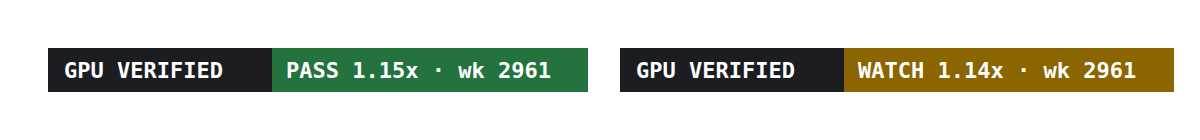
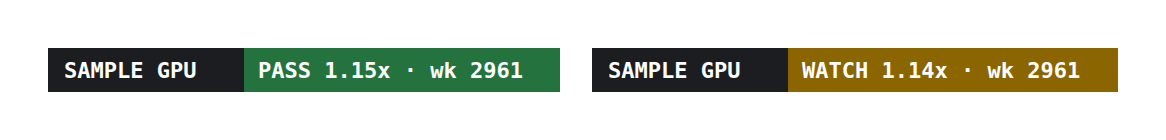
Badge reads SAMPLE GPU when the proofs use published sample evidence
With PCT_EVIDENCE=public the left side of /badge/<address>.svg says SAMPLE GPU instead of GPU
VERIFIED, and the verify page's badge alt text matches. docs/img/badge.png refreshed.

Claude-Session: https://claude.ai/code/session_01VroAWgx1ds49jSJxLJ4Pcu

Changed region(s): [[0.0309, 0.3429, 0.988, 0.6571]]

diff --git a/packages/web/src/zk.ts b/packages/web/src/zk.ts
@@ -138,15 +138,19 @@ export async function loadZk(connection: Connection, programId: PublicKey, loan:
   };
 }
 
-/** Shields-style "GPU VERIFIED | PASS 1.15x · wk 2961" badge. */
-export function badge(status: ZkStatus, coverageBps: number, asOf: number): string {
+/**
+ * Shields-style "GPU VERIFIED | PASS 1.15x · wk 2961" badge. With PCT_EVIDENCE=public the proofs use
+ * NVIDIA's published sample report, so the left side reads "SAMPLE GPU" instead.
+ */
+export function badge(status: ZkStatus, coverageBps: number, asOf: number, sample = evidence() === "public"): string {
   const label = status === "pass" ? `PASS ${(coverageBps / 10000).toFixed(2)}x` : status === "watch" ? `WATCH ${(coverageBps / 10000).toFixed(2)}x` : "UNPROVEN";
   const color = status === "pass" ? "#24733f" : status === "watch" ? "#8a6500" : "#63666b";
   const right = status === "none" ? label : `${label} · wk ${asOf}`;
-  const w1 = 112,
+  const left = sample ? "SAMPLE GPU" : "GPU VERIFIED";
+  const w1 = Math.round(26 + left.length * 7.2),
     w2 = Math.round(14 + right.length * 7.2);
-  return `<svg xmlns="http://www.w3.org/2000/svg" width="${w1 + w2}" height="22" role="img" aria-label="GPU verified: ${right}">
+  return `<svg xmlns="http://www.w3.org/2000/svg" width="${w1 + w2}" height="22" role="img" aria-label="${sample ? "Sample GPU evidence" : "GPU verified"}: ${right}">
 <rect width="${w1}" height="22" fill="#1b1d20"/><rect x="${w1}" width="${w2}" height="22" fill="${color}"/>
 <g fill="#fff" font-family="ui-monospace,Menlo,Consolas,monospace" font-size="11" font-weight="600">
-<text x="8" y="15">GPU VERIFIED</text><text x="${w1 + 7}" y="15">${right}</text></g></svg>`;
+<text x="8" y="15">${left}</text><text x="${w1 + 7}" y="15">${right}</text></g></svg>`;
 }

diff --git a/packages/web/public/loan.html b/packages/web/public/loan.html
@@ -155,8 +155,9 @@ $("addr").textContent = addr;
   $("terms").innerHTML = dd("Lender", l.lender, true) + dd("Borrower", l.borrower, true) + dd("Operator key (hash)", hex(l.operatorKey), true) +
     dd("Fleet", `${l.fleetGpus} GPUs`) + dd("Period", l.periodS === 604800 ? "1 week" : `${l.periodS} s`) + dd("Minimum coverage", bps(l.minCoverageBps || 0)) +
     dd("Currency", l.currency || "USD") + dd("Drawn / available", `${l.drawnSol ?? 0} / ${l.availableSol ?? 0} SOL`);
-  $("badge").src = `/badge/${addr}.svg`;
-  $("embed").textContent = `<a href="${location.origin}/loan/${addr}"><img src="${location.origin}/badge/${addr}.svg" alt="GPU verified"></a>`;
+  const alt = z.evidence === "public" ? "Sample GPU evidence" : "GPU verified";
+  $("badge").src = `/badge/${addr}.svg`; $("badge").alt = `${alt} badge`;
+  $("embed").textContent = `<a href="${location.origin}/loan/${addr}"><img src="${location.origin}/badge/${addr}.svg" alt="${alt}"></a>`;
   const rows = [];
   if (z.proofTx) rows.push({ t: z.provenAt, e: "Covenant proven", d: `${s.toUpperCase()} ${z.coverageBps ? bps(z.coverageBps) : ""}`, sig: z.proofTx });
   for (const d of l.draws || []) rows.push({ t: d.blockTime, e: "Draw approved", d: `${(d.lamports || 0) / 1e9} SOL`, sig: d.signature });

diff --git a/packages/web/src/zk.test.ts b/packages/web/src/zk.test.ts
@@ -72,6 +72,11 @@ describe("badge", () => {
     expect(badge("watch", 11_403, 2961)).toContain("WATCH 1.14x · wk 2961");
     expect(badge("none", 0, 0)).toContain(">UNPROVEN<");
   });
+  it("says SAMPLE GPU when the proofs use published sample evidence", () => {
+    expect(badge("pass", 11_500, 2961, true)).toContain(">SAMPLE GPU<");
+    expect(badge("pass", 11_500, 2961, true)).not.toContain("GPU VERIFIED");
+    expect(badge("pass", 11_500, 2961, false)).toContain(">GPU VERIFIED<");
+  });
 });
 
 describe("provedChallenge", () => {
